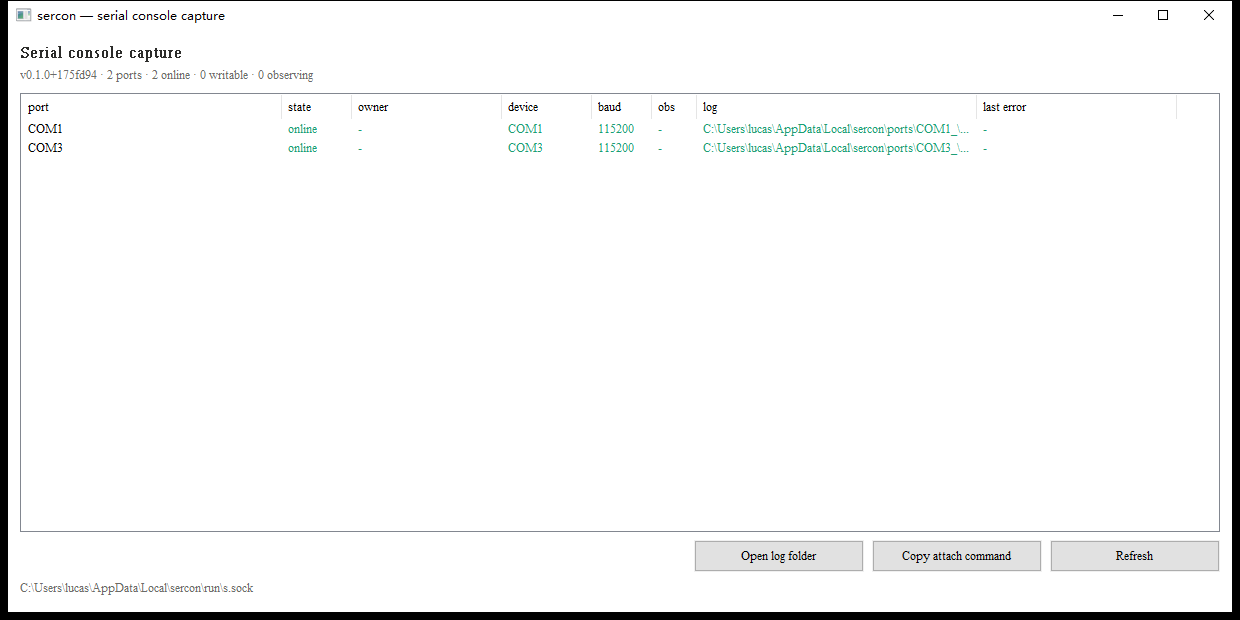
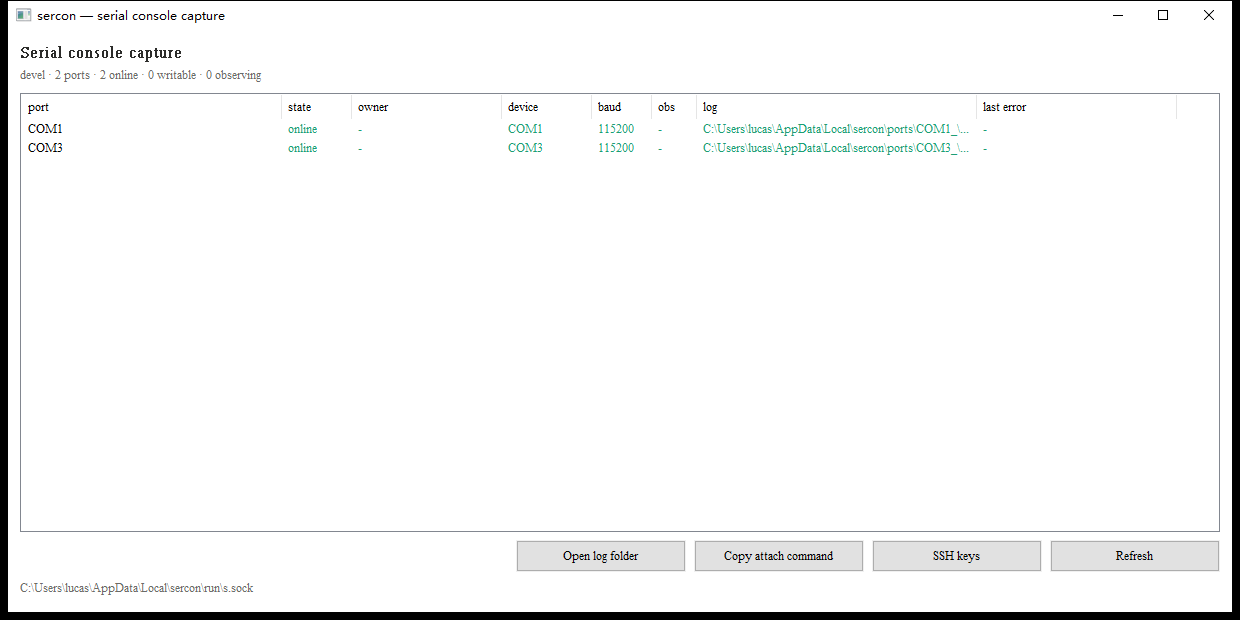
Cut the marketing voice out of the docs
The README opened with three lines of nothing: "串口的物理位置在跳板机上，
你在自己机器上，中间隔着网段" restates the premise, and "像线插在自己机器
上一样" is a simile where a description belonged. It never said what sercon
actually is. The screenshot then sat between two of those paragraphs, so the
first thing a reader got was a picture of a tool they had not been told about.

Replaced with two sentences that name the two processes and where each runs.
The other two paragraphs were not deleted, only the tone: the daemon logging
without a client, and the zero-dependency build, are real properties — they
just read as sales copy when the first thing the file does is list them one
per paragraph.

Same problem elsewhere:

- README "日志": "守护进程不看有没有人连着都写日志" — subject-less and
  written for effect. Says the same thing directly now.
- README "Windows": called sercon and sercon-gui two binaries with different
  jobs without saying which was which, so a reader who had only seen the
  client had no idea what sercon-gui.exe was. Also said four buttons under a
  sentence that lists four, and "会把窗口关掉" without saying that is the
  point (a client must not just get an acknowledgement).
- README commands table: five rows, "四个命令".
- README structure table: internal/winconsole was missing.
- design.md: "每一条都花过时间，而且都不像是会出问题的地方" — a comment
  about the author, not about the bugs. Says what actually happened instead:
  they failed silently. "## 形态" renamed; it named nothing.
[…]

diff --git a/cmd/sercon-gui/keys_windows.go b/cmd/sercon-gui/keys_windows.go
@@ -360,7 +360,7 @@ func keyReloadWith(mayElevate bool) {
 			// with elevation, so the panel starts empty and says why.
 			keySetRows(kp, nil, "")
 			keySetStatus(kp.pathLabel, path)
-			keySetHint(kp, "Press «Reload» to read it (needs elevation). "+keyHintFor(path))
+			keySetHint(kp, `Press "Reload" to read it (needs elevation). `+keyHintFor(path))
 			return
 		}
 	}

diff --git a/README.md b/README.md
@@ -1,14 +1,9 @@
 # sercon
 
-串口的物理位置在跳板机上，你在自己机器上，中间隔着网段。sercon 让你通过 SSH
-用它，像线插在自己机器上一样。
+串口设备插在跳板机上，跳板机在另一个网段。sercon 让本机的 `minicom` 等价物连到
+那根线：客户端跑在你的机器上，守护进程跑在跳板机上，两端用 SSH 传输。
 
 ![sercon-gui](docs/images/sercon-gui.png)
-
-守护进程脱离 SSH 会话独立存活，没人连接的时候照样抓日志。目标机半夜重启，第二天
-早上 boot log 还在。
-
-零依赖，纯标准库。一个静态二进制丢到跳板机就能跑，不需要 root、systemd 或配置文件。
 
 ## 安装
 
@@ -55,7 +50,7 @@ sercon attach -t you@jump --remote-bin '~/bin/sercond' FT232R
 | `sercon status -t HOST` | 守护进程状态 |
 | `sercon stop -t HOST` | 停掉守护进程 |
 
-四个命令都吃 `~/.ssh/config` 的别名，所以 `-t jump` 就够了，ProxyJump 交给 SSH。
+五个命令都吃 `~/.ssh/config` 的别名，所以 `-t jump` 就够了，ProxyJump 交给 SSH。
 
 `PORT` 可以只写能唯一识别的前缀，比如 `usb-FTDI_FT232R_USB_UART_A50285BI-if00-port0`
 写 `FT232R` 就行。匹配到多个会报错并列出候选。
@@ -139,7 +134,7 @@ sercon: --expect #1: pattern not seen before the timeout: ZZZZ_NOMATCH
 
 ## 日志
 
-守护进程不看有没有人连着都写日志。
+日志由守护进程写，与有没有客户端连接无关。
 
 | 内容 | 位置 |
 |---|---|
@@ -195,18 +190,19 @@ sercon: --expect #1: pattern not seen before the timeout: ZZZZ_NOMATCH
 
 ## Windows
 
-跳板机上两个二进制都要，分工不同：
+Windows 跳板机上有两个二进制，分工不同：
 
 | 文件 | 角色 | 谁启动 |
 |---|---|---|
-| `sercon-gui.exe` | 守护进程本体，带窗口，持有串口 | 双击，或放启动文件夹 |
-| `sercond-windows-amd64.exe` | `session` / `list` / `status` / `stop` | SSH 拉起 |
+| `sercon-gui.exe` | 带窗口的守护进程，持有串口 | 双击，或放启动文件夹 |
+| `sercond.exe`（发布包里的 `sercond-windows-amd64.exe`） | `session` / `list` / `status` / `stop` | SSH 拉起 |
 
-只放 GUI 的话客户端连不上，SSH 需要的那几个子命令在 CLI 里。只放 CLI 的话没有
-窗口，得手动 `sercond capture`。`sercon-gui.exe.manifest` 和 exe 放同一目录。
+两个都要放。只有 GUI 的话 SSH 那侧没有可执行的子命令；只有 CLI 的话守护进程得靠
+`sercond capture` 以前台方式手动起。`sercon-gui.exe.manifest` 和 exe 放同一目录。
 
-窗口里有端口表和四个按钮：打开日志目录、复制 attach 命令、SSH keys、立即重扫。
-窗口开着就在抓日志，关掉就停。`sercon stop -t winjump` 会把窗口关掉。
+窗口里是端口表，底下一排按钮：打开日志目录、复制 attach 命令、SSH keys、立即重扫。
+窗口开着就在抓日志，关掉就停，没有单独的开关。`sercon stop -t winjump` 会把窗口
+关掉，不是只回一个确认。
 
 GUI 必须在交互桌面上启动。SSH 会话里启动的进程画不出窗口，看得见进程看不见界面。
 要么双击，要么放启动文件夹（`Win+R` → `shell:startup`）。
@@ -215,8 +211,8 @@ GUI 必须在交互桌面上启动。SSH 会话里启动的进程画不出窗口
 
 `SSH keys` 按钮装客户端公钥，省得手改 `authorized_keys`。
 
-Windows 上这件事有两个坑，都表现为同一句 `Permission denied (publickey)`：文件位置
-取决于账号是不是管理员，而管理员那个文件还必须收紧 ACL。面板两件都替你做了。
+Windows 上这件事有两个坑，出错都报同一句 `Permission denied (publickey)`：文件位置
+取决于账号是不是管理员，而管理员那个文件还必须收紧 ACL。面板两件都做了。
 
 管理员账号要写的是：
 
@@ -350,6 +346,7 @@ internal/audit/       JSONL 审计流水
 internal/daemon/      守护进程的分离启动
 internal/ipc/         socket 端点解析与单实例绑定
 internal/terminal/    客户端原始终端模式
+internal/winconsole/  Windows 控制台探测与双击保活
 internal/sshauth/      sshd 密钥文件定位、解析与写入
 internal/version/     版本号唯一来源
 internal/relay/       中继传输（已实现，未接入 CLI）

diff --git a/CHANGELOG.md b/CHANGELOG.md
@@ -37,8 +37,7 @@ releases use [Semantic Versioning](https://semver.org/spec/v2.0.0.html).
 
 ## [0.1.0] - 2026-09-10
 
-First working version. Verified end to end against real hardware rather than
-built and hoped for.
+First working version. Driven against real hardware on both platforms.
 
 ### Added
 

diff --git a/docs/deployment.md b/docs/deployment.md
@@ -1,6 +1,6 @@
 # 部署
 
-实际做过的部署步骤。
+按顺序做下来的部署步骤，以及实际的验证记录。
 
 ## 清单
 
